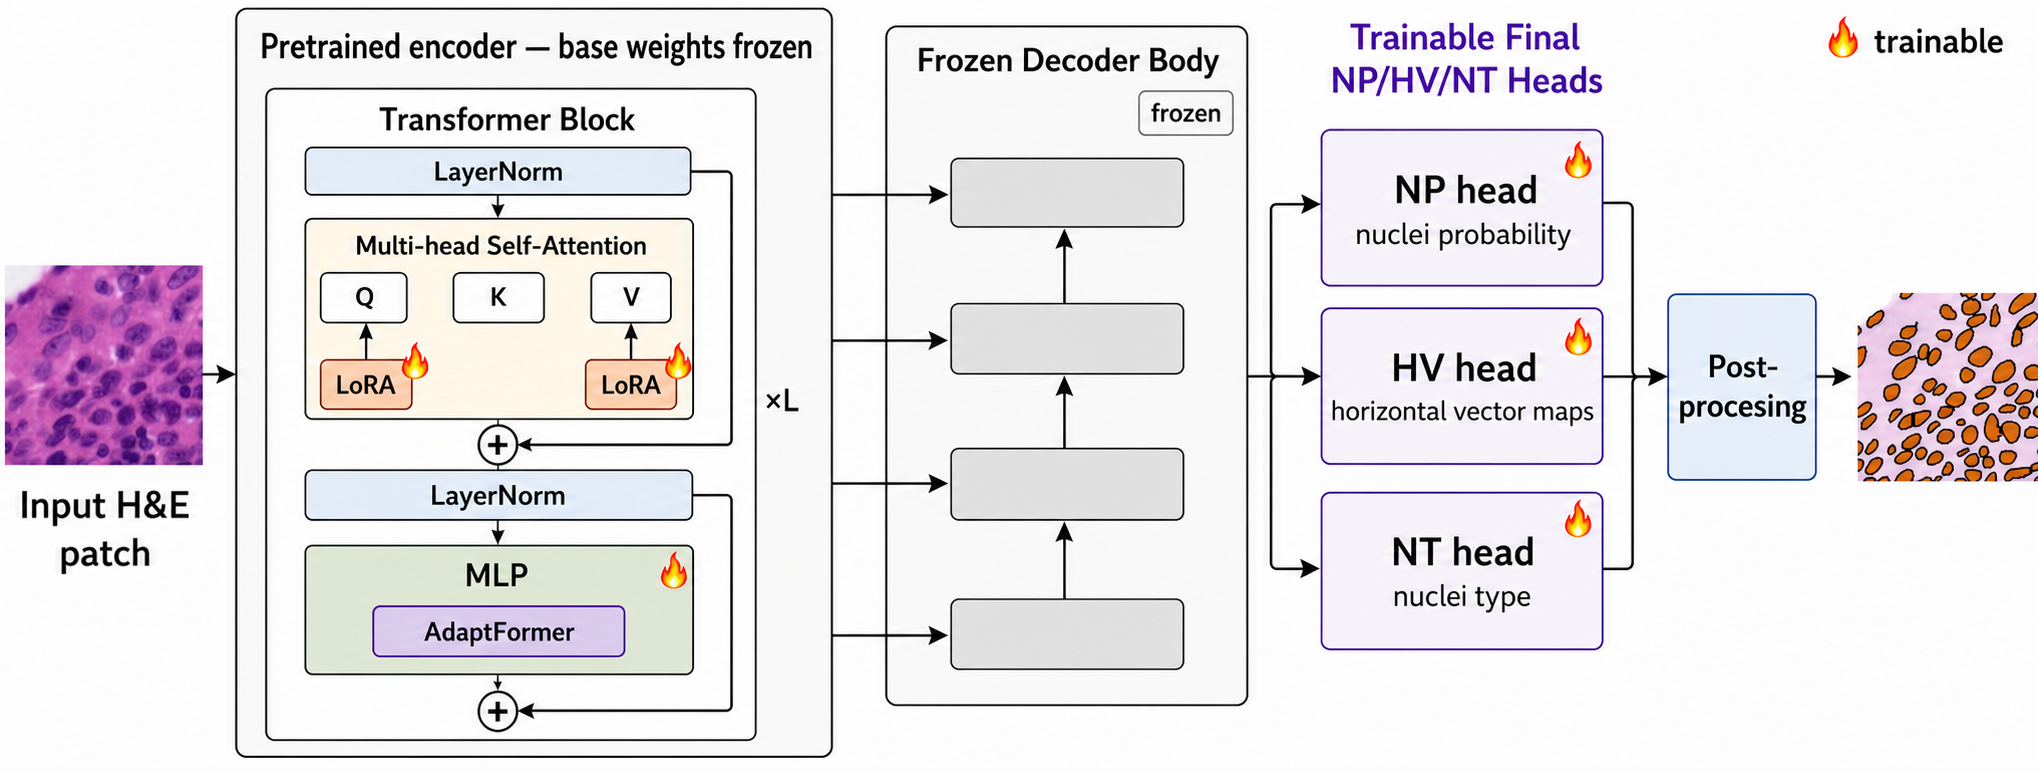
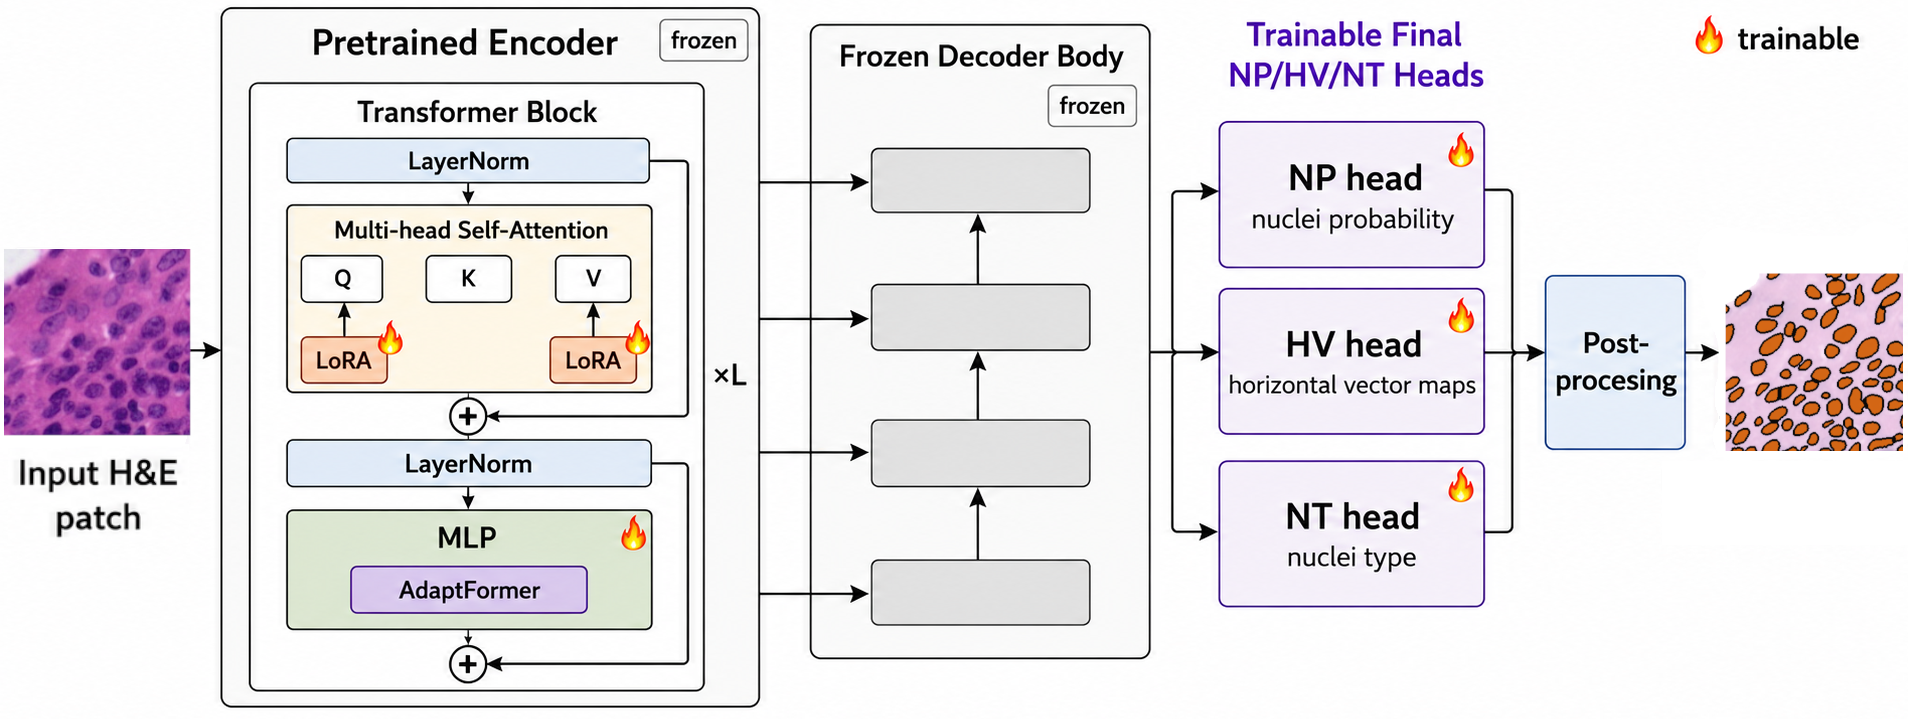
docs(release): finalize public documentation and architecture

diff --git a/README.md b/README.md
@@ -1,14 +1,24 @@
 # STHELAR-Adapt
 
-Parameter-efficient adaptation of frozen CellViT-SAM-H x40 base weights to STHELAR 40x H&E nuclei instance segmentation and five-class cell typing.
+Parameter-efficient adaptation of CellViT-SAM-H x40 to STHELAR 40x H&E nuclei instance segmentation and five-class cell typing.
 
-[COMPAYL 2026 paper (link pending)](#citation) · [STHELAR paper](https://doi.org/10.1038/s41597-026-06937-6) · [STHELAR 40x data](https://huggingface.co/datasets/FelicieGS/STHELAR_40x) · [CellViT](https://github.com/TIO-IKIM/CellViT)
+[COMPAYL 2026 paper (link pending)](#citation) · [Hugging Face adapters](https://huggingface.co/albtad01/STHELAR-Adapt-CellViT-SAM-H-x40) · [STHELAR paper](https://doi.org/10.1038/s41597-026-06937-6) · [STHELAR 40x data](https://huggingface.co/datasets/FelicieGS/STHELAR_40x) · [CellViT](https://github.com/TIO-IKIM/CellViT)
+
+STHELAR pairs H&E tissue morphology with Xenium-derived cell annotations, enabling joint nuclei instance segmentation and five-class cell typing across nine tissues. Tissue-specific differences in morphology and label composition create domain shift, motivating adaptation beyond a fixed pretrained model.
+
+STHELAR-Adapt tests whether CellViT-SAM-H x40 can be adapted to this setting without full fine-tuning. The selected strategy freezes the pretrained encoder base weights and decoder body while training LoRA rank-8 Q/V projections, AdaptFormer bottlenecks, and the final NP, HV, and NT heads. It updates approximately 1.12% of model parameters and recovers 94.96% of FullFT KLT mPQ. This repository provides preprocessing, leakage-safe spatial splitting, experiment configs, evaluation utilities, release tools, and verified Hugging Face adapter packages.
+
+## Highlights
+
+- Joint nuclei instance segmentation and five-class cell typing across nine STHELAR tissues.
+- Selected LoRA Q/V + AdaptFormer + NP/HV/NT adaptation with frozen encoder base weights and decoder body.
+- Approximately 1.12% trainable parameters while recovering 94.96% of FullFT KLT mPQ.
+- Reproducible preprocessing, spatial splits, configs, evaluation, and adapter release tooling.
+- Twelve verified KLT and tissue-specific safetensors adapter packages on Hugging Face.
 
 <p align="center">
-  <img src="docs/figures/architecture.png" alt="STHELAR-Adapt architecture: pretrained encoder base weights frozen, trainable LoRA and AdaptFormer modules, frozen decoder body, and trainable final heads" width="900">
+  <img src="figures/paper_figures/architecture.png" alt="STHELAR-Adapt architecture: pretrained encoder base weights frozen, trainable LoRA and AdaptFormer modules, frozen decoder body, and trainable final heads" width="900">
 </p>
-
-The selected adapter uses LoRA rank 8/alpha 8 on encoder-attention Q and V projections, AdaptFormer bottlenecks in encoder MLP blocks, and trainable final NP, HV, and NT heads. The pretrained encoder base weights and decoder body remain frozen; about 1.12% of all parameters are trainable.
 
 ## Key results
 
@@ -42,16 +52,16 @@ The normal user workflow uses released safetensors packages; it does not require
    python -m pip install -r requirements.txt
    ```
 
-2. Obtain `CellViT-SAM-H-x40.pth` independently and verify its SHA256:
+2. Download the [official CellViT-SAM-H x40 checkpoint](https://drive.usercontent.google.com/download?id=1MvRKNzDW2eHbQb5rAgTEp6s2zAXHixRV&export=download&authuser=0) and verify its SHA256:
 
    ```bash
    sha256sum /path/to/CellViT-SAM-H-x40.pth
    # b324c10fddb0f80f5ab03a0459453a4c4848866934daf63435b46749a6b278cf
    ```
 
-   The base checkpoint is not redistributed here.
+   The base checkpoint is required for reconstruction but is not redistributed here. Users must comply with its applicable terms.
 
-3. After publication, download one adapter package and its matching config from the Hugging Face model repository:
+3. Download one adapter package and its matching config from the Hugging Face model repository:
 
    ```python
    from huggingface_hub import snapshot_download
@@ -94,7 +104,7 @@ python -m pip install torch
 python -m pip install -r requirements.txt
 ```
 
[2 lines of base64/hex data omitted]
 
 ## Dataset preparation and leakage-safe splitting
 
@@ -200,9 +210,9 @@ python tools/export_adapter_safetensors.py /path/to/approved_adapter.pth \
   --base-checkpoint-sha256 b324c10fddb0f80f5ab03a0459453a4c4848866934daf63435b46749a6b278cf
 ```
 
-## Verified release-candidate inventory
+## Verified adapter inventory
 
-All 12 release candidates passed conversion, exact tensor round-trip, metadata, base-loading, and 256×256 CPU forward checks. Exact source/config/export hashes are frozen in [the verified release manifest](release/huggingface/adapter_manifest_verified.csv); the broader 51-checkpoint audit remains in [the audit manifest](release/adapter_manifest.csv). No full CellViT base weights belong in the adapter release.
+All 12 adapter packages passed conversion, exact tensor round-trip, metadata, base-loading, and 256×256 CPU forward checks. Exact source/config/export hashes are frozen in [the verified release manifest](release/huggingface/adapter_manifest_verified.csv); the broader 51-checkpoint audit remains in [the audit manifest](release/adapter_manifest.csv). No full CellViT base weights belong in the adapter release.
 
 | Public adapter ID | Tissue(s) | Seed |
 |---|---|---:|
@@ -228,9 +238,9 @@ All 12 release candidates passed conversion, exact tensor round-trip, metadata, 
 | `configs/release/compayl2026/` | curated preprocessing and training configurations |
 | `utils/` | evaluation, analysis, checkpoint, and adapter utilities |
 | `tools/` | public adapter audit, conversion, and verification tools |
-| `reports/`, `docs/figures/` | selected metrics, audits, and canonical publication figures |
+| `reports/`, `figures/paper_figures/`, `docs/figures/` | selected metrics, audits, the publication architecture source, and synchronized figures |
 | `ruche/`, `jeanzay/` | optional, cluster-specific SLURM examples; not required locally |
-| `release/huggingface/` | local, non-uploaded Hugging Face release draft |
+| `release/huggingface/` | Hugging Face adapter-release metadata, configs, scripts, results, and synchronized figures |
 
 ## Limitations
 
@@ -238,7 +248,7 @@ All 12 release candidates passed conversion, exact tensor round-trip, metadata, 
 - STHELAR cell labels are derived from spatial transcriptomics and retain assignment uncertainty.
 - Selected PEFT nearly recovers FullFT mPQ but retains a gap in cell-type F1.
 - The work is for research use only and is not validated for clinical diagnosis or treatment.
-- Exact base-checkpoint identity, weight redistribution rights, and combined code/adapter/base-model licensing require manual confirmation before release.
+- The base checkpoint is required but not redistributed; users must comply with its applicable terms and the repository license notices.
 
 ## Citation
 

diff --git a/release/huggingface/README.md b/release/huggingface/README.md
@@ -15,9 +15,13 @@ datasets:
   - FelicieGS/STHELAR_40x
 ---
 
-# STHELAR-Adapt — draft model card
+# STHELAR-Adapt: Parameter-Efficient CellViT Adaptation to STHELAR
 
-> **Verified release candidate.** All 12 canonical adapters have passed conversion, exact round-trip equality, model loading, forward smoke, and metadata checks. The CellViT-SAM-H x40 base checkpoint is not redistributed.
+> **Verified adapter release.** The twelve canonical packages have passed exact round-trip, metadata, checksum, strict state-dict loading, and forward verification. The CellViT-SAM-H x40 base checkpoint is required but not redistributed.
+
+STHELAR-Adapt addresses joint nuclei instance segmentation and five-class cell typing in STHELAR 40x H&E images, whose paired cell annotations are derived from Xenium spatial transcriptomics. The release contains two KLT adapters covering kidney, liver, and tonsil seeds 42/43, plus ten tissue-specific packages spanning Breast, Colon, Kidney, Liver, Lung, Ovary, Pancreatic, Skin, and Tonsil.
+
+This is an adapter-only release: it provides LoRA Q/V, AdaptFormer, final NP/HV/NT head state, and required mutable buffers, but no CellViT/SAM-H base weights. All twelve packages passed PTH-to-safetensors tensor equality, sanitized-metadata validation, source/config/export checksum validation, strict loading with zero missing or unexpected adapter and mutable-buffer keys, and 256×256 forward verification against the declared base architecture.
 
 ![STHELAR-Adapt architecture: pretrained encoder base weights frozen, trainable LoRA and AdaptFormer modules, frozen decoder body, and trainable final heads](figures/architecture.png)
 
@@ -40,7 +44,14 @@ The selected configuration has 7,908,779 trainable parameters, approximately 1.1
 - Backbone: SAM-H, 32 blocks, embedding dimension 1280, 16 attention heads
 - Input: normalized RGB 256×256 STHELAR 40x patches
 
[1 lines of base64/hex data omitted]
+Download the [official CellViT-SAM-H x40 checkpoint](https://drive.usercontent.google.com/download?id=1MvRKNzDW2eHbQb5rAgTEp6s2zAXHixRV&export=download&authuser=0). The base checkpoint is **required but not included or redistributed**. Verify the file before loading an adapter:
+
+```bash
+sha256sum /path/to/CellViT-SAM-H-x40.pth
+# b324c10fddb0f80f5ab03a0459453a4c4848866934daf63435b46749a6b278cf
+```
+
+Users must comply with the base checkpoint's applicable terms. A filename match alone is insufficient for compatibility.
 
 ## Intended uses
 
@@ -60,7 +71,7 @@ The base checkpoint is **not included or redistributed**. The locally verified c
 
 Adapters were trained on the public [STHELAR 40x Hugging Face dataset](https://huggingface.co/datasets/FelicieGS/STHELAR_40x), derived from Xenium spatial transcriptomics paired with H&E imagery. Experiments cover kidney, liver, tonsil, ovary, breast, colon, lung, pancreatic, and skin tissues. KLT combines kidney, liver, and tonsil.
 
-The release configs use within-slide spatial train/validation/test regions with a 128-coordinate-unit boundary exclusion band. Some tissue configs cap each slide at 50,000 patches before splitting. The exact dataset revision and file hashes must be added before upload.
+The release configs use within-slide spatial train/validation/test regions with a 128-coordinate-unit boundary exclusion band. Some tissue configs cap each slide at 50,000 patches before splitting. The exact source Parquet revision and file-level hashes used during the original experiments were not pinned. Users reproducing the experiments should record the STHELAR dataset revision and input checksums they use.
 
 ### Label mapping
 
@@ -111,9 +122,9 @@ The selected PEFT method recovers 94.96% of FullFT KLT mPQ. `results/klt_ablatio
 
 See `results/tissue_specific_compayl2026_final.csv` for unrounded values and aggregation policy.
 
-## Adapter inventory
+## Verified adapter inventory
 
-The release candidate contains 12 adapter-only files: KLT seeds 42/43; Breast 42; Colon 42; Kidney 42/43; Liver 42; Lung 42; Ovary 42; Pancreatic 43; Skin 42; and Tonsil 43. [`adapter_manifest_verified.csv`](adapter_manifest_verified.csv) freezes stable public IDs, exact source/config/export SHA256 values, tensor structure, and verification status; [`verification_summary.json`](verification_summary.json) records the environment and full test outcomes.
+This release contains 12 adapter-only files: KLT seeds 42/43; Breast 42; Colon 42; Kidney 42/43; Liver 42; Lung 42; Ovary 42; Pancreatic 43; Skin 42; and Tonsil 43. [`adapter_manifest_verified.csv`](adapter_manifest_verified.csv) freezes stable public IDs, exact source/config/export SHA256 values, tensor structure, and verification status; [`verification_summary.json`](verification_summary.json) records the environment and full test outcomes.
 
 No ablation, failed, retest, duplicate-named alternate run, or full base checkpoint belongs in the canonical set.
 

diff --git a/reports/release_candidate_verification.md b/reports/release_candidate_verification.md
@@ -109,7 +109,7 @@ The complete intentional difference set is:
 - The redundant standalone safetensors installation was removed.
 - F1 type was added to the root KLT headline table: 0.430 final-head LP, 0.666 FullFT, and 0.578 selected PEFT.
 - Both qualitative captions use: “Examples were selected for qualitative illustration and are not intended to constitute a statistically representative sample.”
-- GitHub's canonical assets are `docs/figures/architecture.png` and `docs/figures/qualitative.png`; synchronized standalone-model-repository copies live under `release/huggingface/figures/`. The architecture heading reads “Pretrained encoder — base weights frozen”. Older unused architecture copies were not deleted.
+- The publication architecture source is `figures/paper_figures/architecture.png`; byte-identical destinations live at `docs/figures/architecture.png` and `release/huggingface/figures/architecture.png`. The qualitative figure remains synchronized between `docs/figures/qualitative.png` and `release/huggingface/figures/qualitative.png`.
 - All filesystem-relative links in the root README and standalone model card passed local-link validation.
 
 ## Existing diff and recommended commit split
